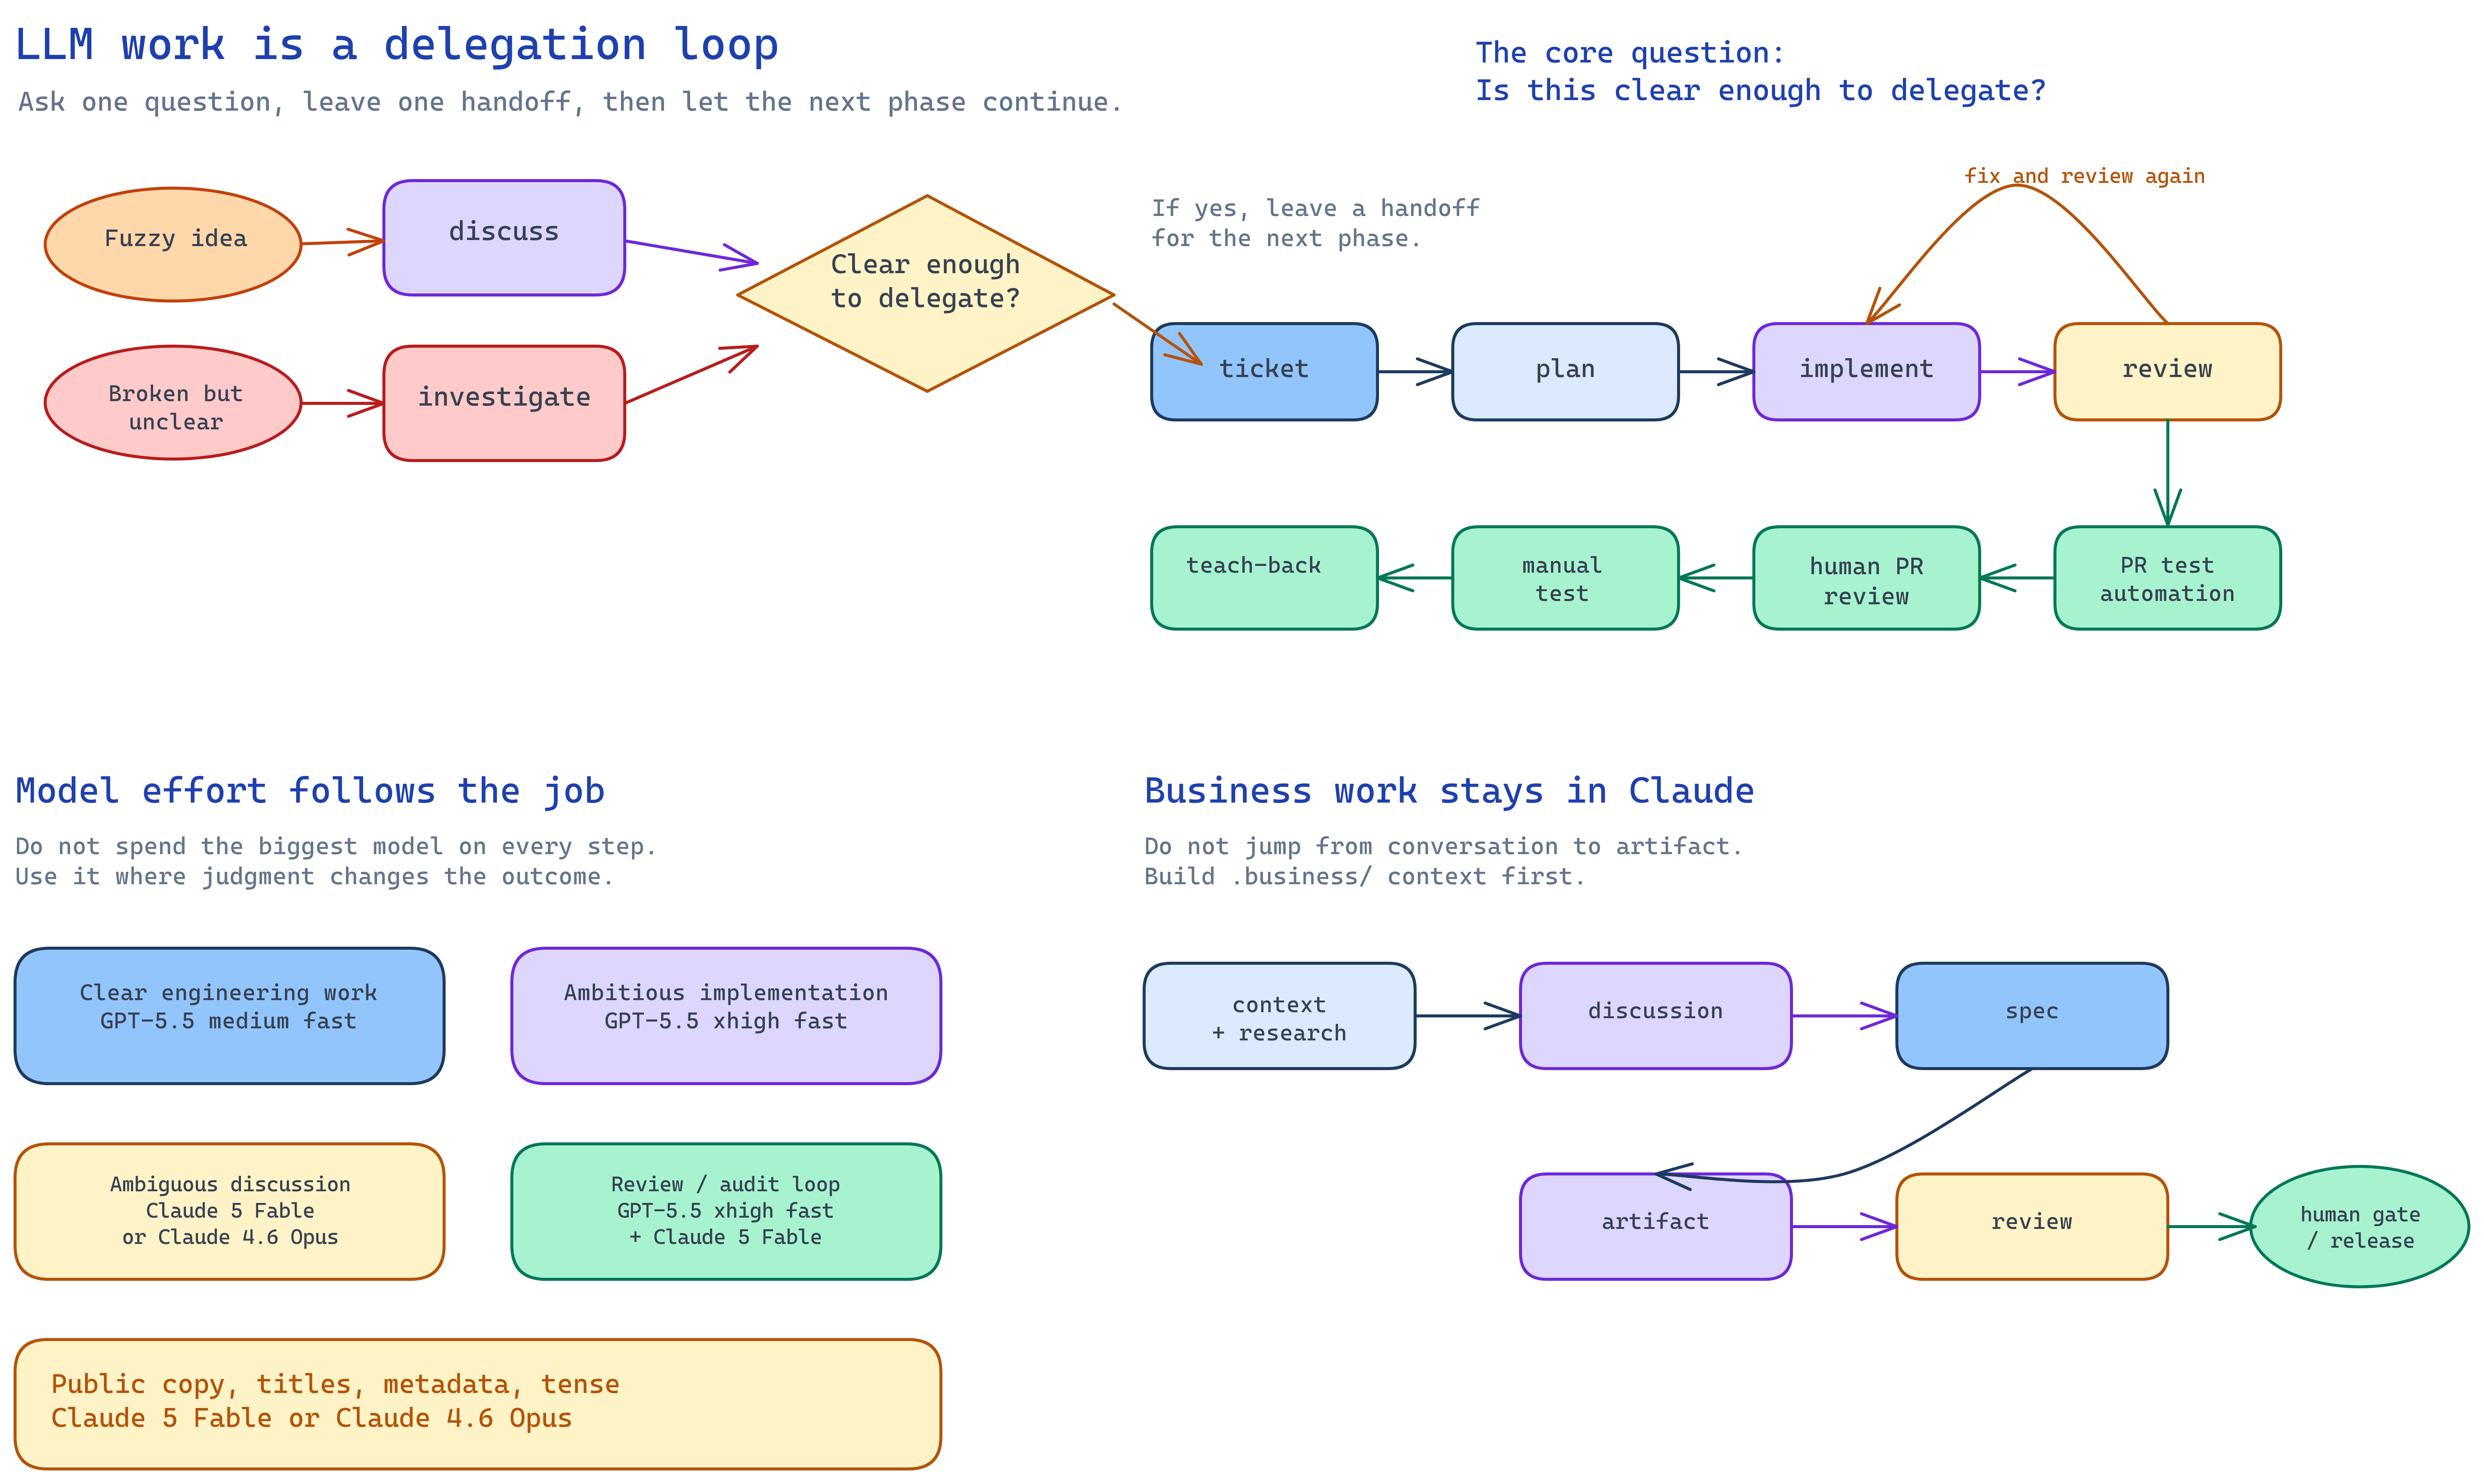
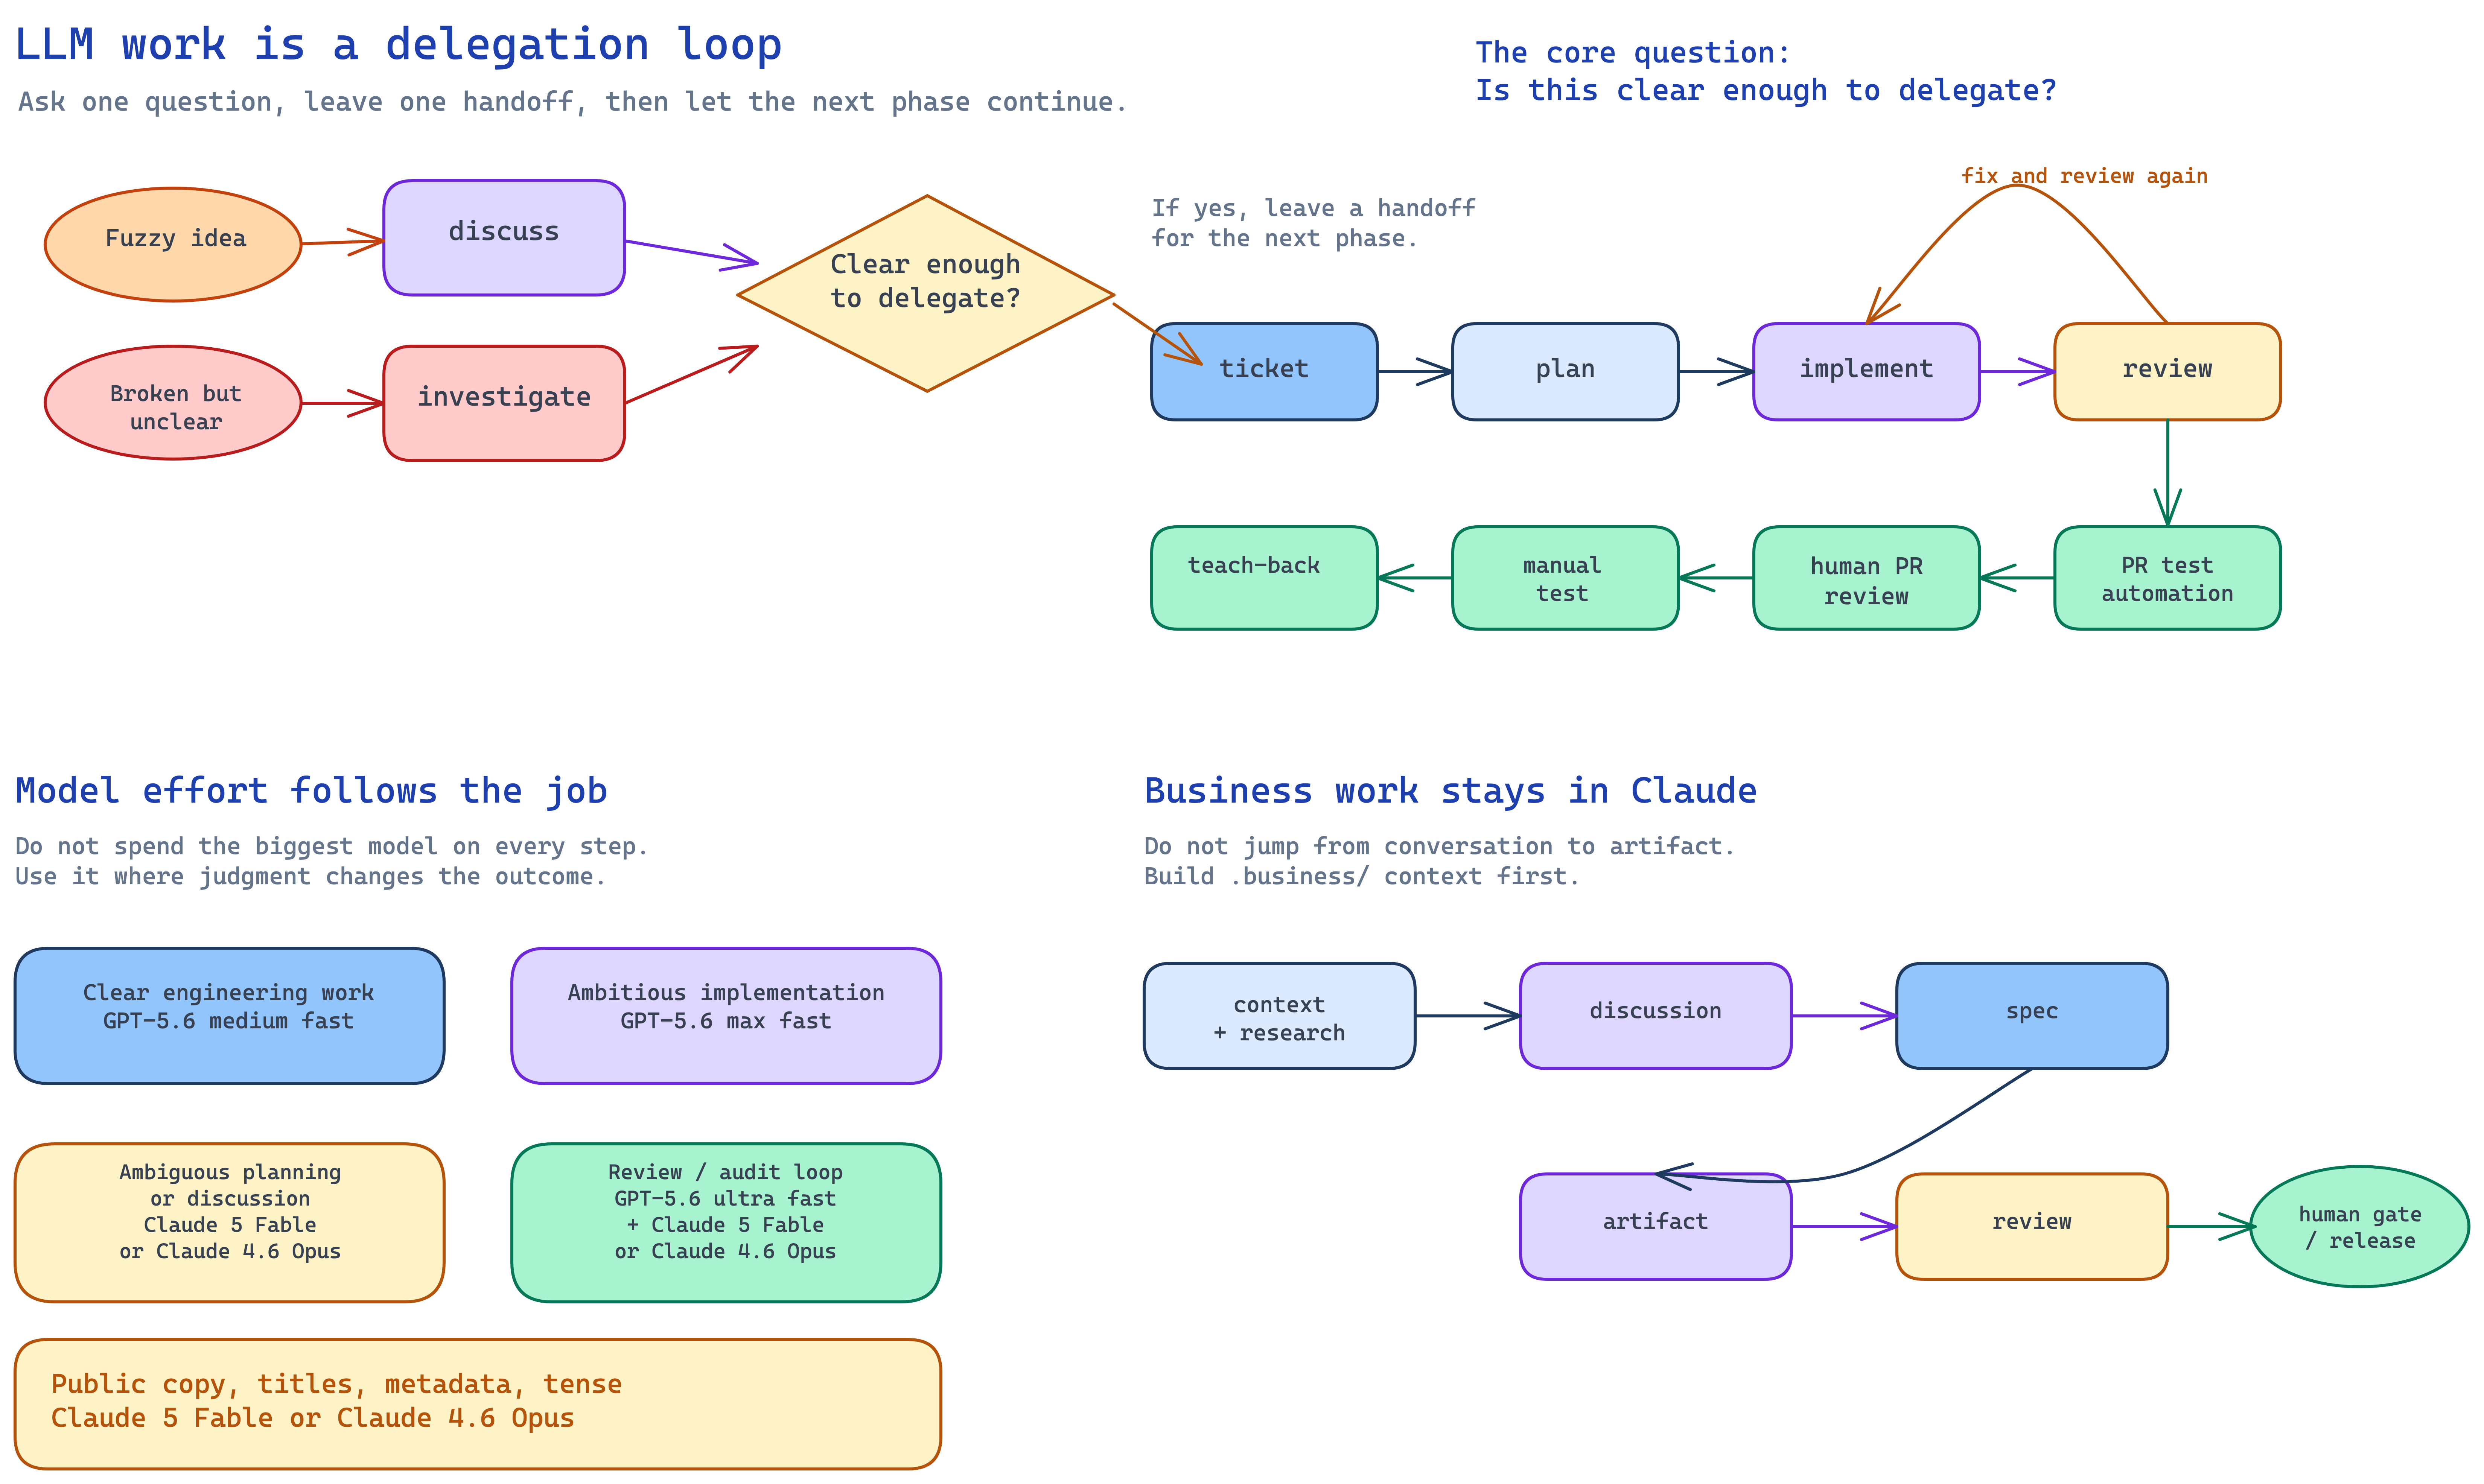
Update model guidance to GPT-5.6

diff --git a/README.md b/README.md
@@ -120,7 +120,7 @@ folders provide agent-specific discovery metadata and detailed instructions.
 This keeps model choice pretty simple. In dcouple/Pane, we use GPT models
 through the Codex harness and Claude models through the Claude Code harness.
 Codex is the engineering workhorse. Most well-scoped implementation work
-doesn't need the biggest model. Right now, `GPT-5.5 medium fast` is the
+doesn't need the biggest model. Right now, `GPT-5.6 medium fast` is the
 everyday implementation default: it is strong enough for most clear tickets,
 fast enough to feel like you're flying, and cheap enough that you can work in
 long windows without feeling throttled by weekly limits.
@@ -138,25 +138,28 @@ framing. Codex can preserve the facts and still miss who the page is for, what
 moment the reader is in, and how the sentence should sound. That is how
 evergreen support copy quietly turns into the wrong tense.
 
-Reach for `GPT-5.5 xhigh fast` when the implementation is unusually ambitious:
+Reach for `GPT-5.6 max fast` when the implementation is unusually ambitious:
 lots of moving parts, fuzzy architecture boundaries, or a mistake that would be
 expensive to unwind. That should be the exception, not the default.
+
+Ambiguous discussion and planning should stay in Claude when available: use
+`Claude 5 Fable` first, with `Claude 4.6 Opus` as a still-great fallback when
+Fable is unavailable or the extra usage cost is not worth it.
 
 Review is where we should be more aggressive. The reviewer isn't trying to be
 fast; it's trying to catch the thing the implementer missed. It should read the
 issue, the plan, and the diff with fresh eyes and ask: did we actually do what
-we meant? For non-trivial work, keep Claude and Codex review passes in the loop
-until what's left is either an intentional tradeoff, a very unlikely edge case,
-or no issue at all.
+we meant? For non-trivial planning and implementation review, run `GPT-5.6 ultra
+fast` and `Claude 5 Fable` in parallel; if Fable is unavailable or the cost is
+not worth it, use `Claude 4.6 Opus` as the Claude lane. Keep both lanes in the
+loop until neither reports bugs, factual blockers, or plan issues.
 
 For that review/audit loop, it is worth spending the expensive models
-sparingly: `GPT-5.5 xhigh fast` and `Claude 5 Fable` are not needed for most
+sparingly: `GPT-5.6 ultra fast` and `Claude 5 Fable` are not needed for most
 implementation, so save them for the places where sharper judgment changes the
-outcome. `Claude 5 Fable` is also the nicest model to talk with when the task is
-ambiguous and you want to reason through the shape of the work. If the extra
-usage cost is not worth it, `Claude 4.6 Opus` is an acceptable fallback. I
-would avoid `Claude 4.7` and `Claude 4.8` for this workflow; they tend to feel
-too constrained for open-ended discussion and judgment calls.
+outcome. `GPT-5.6 max fast` is the heavier implementation lane. I would avoid
+`Claude 4.7` and `Claude 4.8` for this workflow; they tend to feel too
+constrained for open-ended discussion and judgment calls.
 
 ### Business work
 

diff --git a/parsa/.claude/skills/create-plan/SKILL.md b/parsa/.claude/skills/create-plan/SKILL.md
@@ -265,11 +265,11 @@ Task tool:
    parallel with the Claude reviewer and **wait for both** before continuing.
    Do not treat the first result that returns as sufficient.
 
-   Prefer a fresh, high-effort rescue run so Codex audits the actual saved plan
+   Prefer a fresh, ultra-effort rescue run so Codex audits the actual saved plan
    against the current repo rather than free-associating:
 
 ```
-/codex:rescue --wait --fresh --model gpt-5.4 --effort xhigh audit the plan at [plan path] against the current repository and the supporting brief at [brief path]. Focus on ghost paths, missing runtime wiring, auth/permission gaps, transaction boundaries, async/job registration, query params or routes with no consumer, brief-to-plan intent drift, and any task definitions that are likely to let an implementation stop short of the finish line. Return numbered findings with exact file references when possible and say explicitly whether the plan seems implementation-ready.
+/codex:rescue --wait --fresh --model gpt-5.6 --effort ultra audit the plan at [plan path] against the current repository and the supporting brief at [brief path]. Focus on ghost paths, missing runtime wiring, auth/permission gaps, transaction boundaries, async/job registration, query params or routes with no consumer, brief-to-plan intent drift, and any task definitions that are likely to let an implementation stop short of the finish line. Return numbered findings with exact file references when possible and say explicitly whether the plan seems implementation-ready.
 ```
 
    If the Codex plugin is unavailable, run only the Claude review lane and
@@ -332,7 +332,7 @@ Plan finalized! To implement, run:
 Explicit Claude executor:
 /implement claude ./tmp/ready-plans/[filename]
 
-Optional Codex executor (gpt-5.4, high):
+Optional Codex executor (gpt-5.6, max):
 /implement --codex ./tmp/ready-plans/[filename]
 ```
 

diff --git a/parsa/.claude/skills/implement/SKILL.md b/parsa/.claude/skills/implement/SKILL.md
@@ -101,7 +101,7 @@ If you choose to parallelize, keep it bounded:
 
 If the executor is **Codex** and the plugin is available:
 
-- Use **one** primary `/codex:rescue --wait --fresh --model gpt-5.4 --effort high` run for the end-to-end implementation
+- Use **one** primary `/codex:rescue --wait --fresh --model gpt-5.6 --effort max` run for the end-to-end implementation
 - Pass the same implementation contract used for the Claude implementer:
   - brief / intent artifact first, plan second
   - one primary owner for the whole stream
@@ -115,7 +115,7 @@ If the executor is **Codex** and the plugin is available:
 Suggested Codex executor prompt:
 
 ```
-/codex:rescue --wait --fresh --model gpt-5.4 --effort high implement the plan at [plan path]. Supporting brief / intent artifact: [path if available]. Treat the brief as the source of truth for why and the plan as the source of truth for how. You are the primary implementation authority for this run. Do not silently simplify or defer scope. A task is not complete until the end-to-end runtime or user-facing path is wired and still preserves the intended outcome. Run npm run typecheck and npm run lint as you work. Update the plan progress where practical and report any remaining manual steps or unresolved blockers clearly.
+/codex:rescue --wait --fresh --model gpt-5.6 --effort max implement the plan at [plan path]. Supporting brief / intent artifact: [path if available]. Treat the brief as the source of truth for why and the plan as the source of truth for how. You are the primary implementation authority for this run. Do not silently simplify or defer scope. A task is not complete until the end-to-end runtime or user-facing path is wired and still preserves the intended outcome. Run npm run typecheck and npm run lint as you work. Update the plan progress where practical and report any remaining manual steps or unresolved blockers clearly.
 ```
 
 ## Step 5: Parallel Review Gates